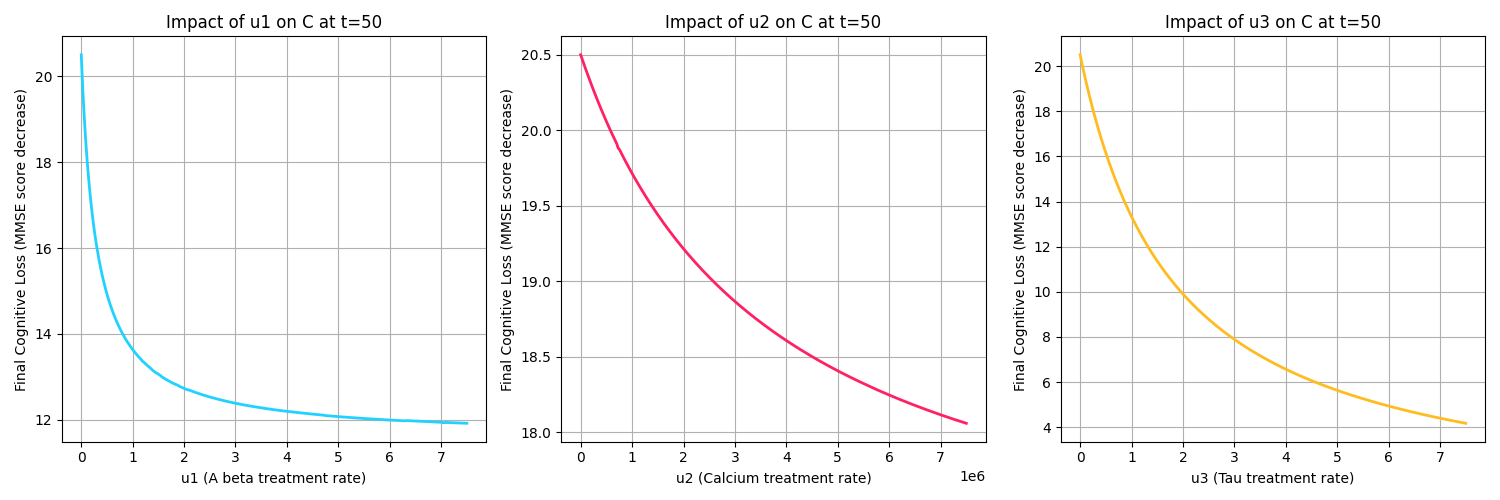
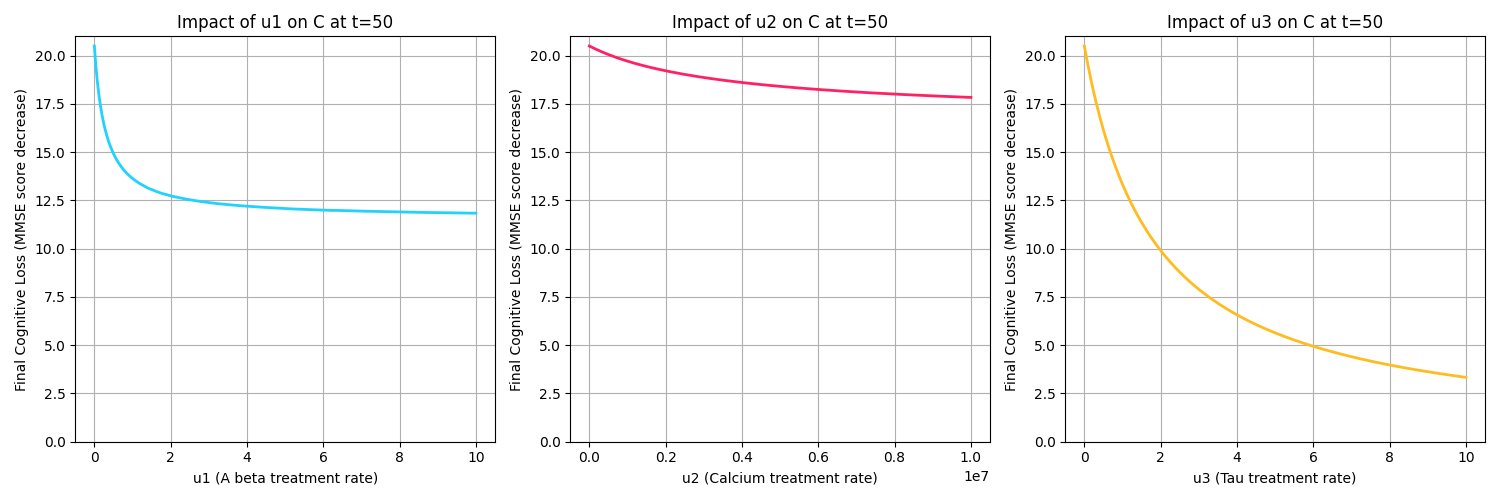
change graph 2

diff --git a/code/python/graphs code/main.py b/code/python/graphs code/main.py
@@ -126,9 +126,9 @@ plt.show()
 # TREATMENT GRAPHS
 
 # ranges for the Us
-u1_range = np.linspace(0, 7.5, 500)
-u2_range = np.linspace(0, 7500000, 500)
-u3_range = np.linspace(0, 7.5, 500)
+u1_range = np.linspace(0, 10, 500)
+u2_range = np.linspace(0, 10000000, 500)
+u3_range = np.linspace(0, 10, 500)
 
 # store final C values
 C_end_u1 = []
@@ -148,6 +148,7 @@ fig, axes = plt.subplots(1, 3, figsize=(15, 5))
 
 # final C vs u1
 axes[0].plot(u1_range, C_end_u1, color='#21D2FF', lw=2)
+axes[0].set_ylim(0, 21)
 axes[0].set_xlabel('u1 (A beta treatment rate)')
 axes[0].set_ylabel('Final Cognitive Loss (MMSE score decrease)')
 axes[0].set_title('Impact of u1 on C at t=50')
@@ -155,6 +156,7 @@ axes[0].grid(True)
 
 # final C vs u2
 axes[1].plot(u2_range, C_end_u2, color='#FF2164', lw=2)
+axes[1].set_ylim(0, 21)
 axes[1].set_xlabel('u2 (Calcium treatment rate)')
 axes[1].set_ylabel('Final Cognitive Loss (MMSE score decrease)')
 axes[1].set_title('Impact of u2 on C at t=50')
@@ -162,6 +164,7 @@ axes[1].grid(True)
 
 # final C vs u3
 axes[2].plot(u3_range, C_end_u3, color='#FFBC21', lw=2)
+axes[2].set_ylim(0, 21)
 axes[2].set_xlabel('u3 (Tau treatment rate)')
 axes[2].set_ylabel('Final Cognitive Loss (MMSE score decrease)')
 axes[2].set_title('Impact of u3 on C at t=50')

diff --git a/tex/manuscript/manuscript.tex b/tex/manuscript/manuscript.tex
@@ -226,7 +226,7 @@ params in Table~\ref{tab:params1}. need elaboration and characterizations
         $u _{1}$ & varies & $yr^{-1}$ & \\
         $u _{2}$ & varies & $yr^{-1}$ & \\
         $u _{3}$ & varies & $yr^{-1}$ & \\
-        $\sigma$ & $50-150$& $nM$ &  \\
+        $\sigma$ & $50-150$& $nM$ & \\
         \hline
     \end{tabular}
     \caption{Parameters used for simulation\label{tab:params1}}
